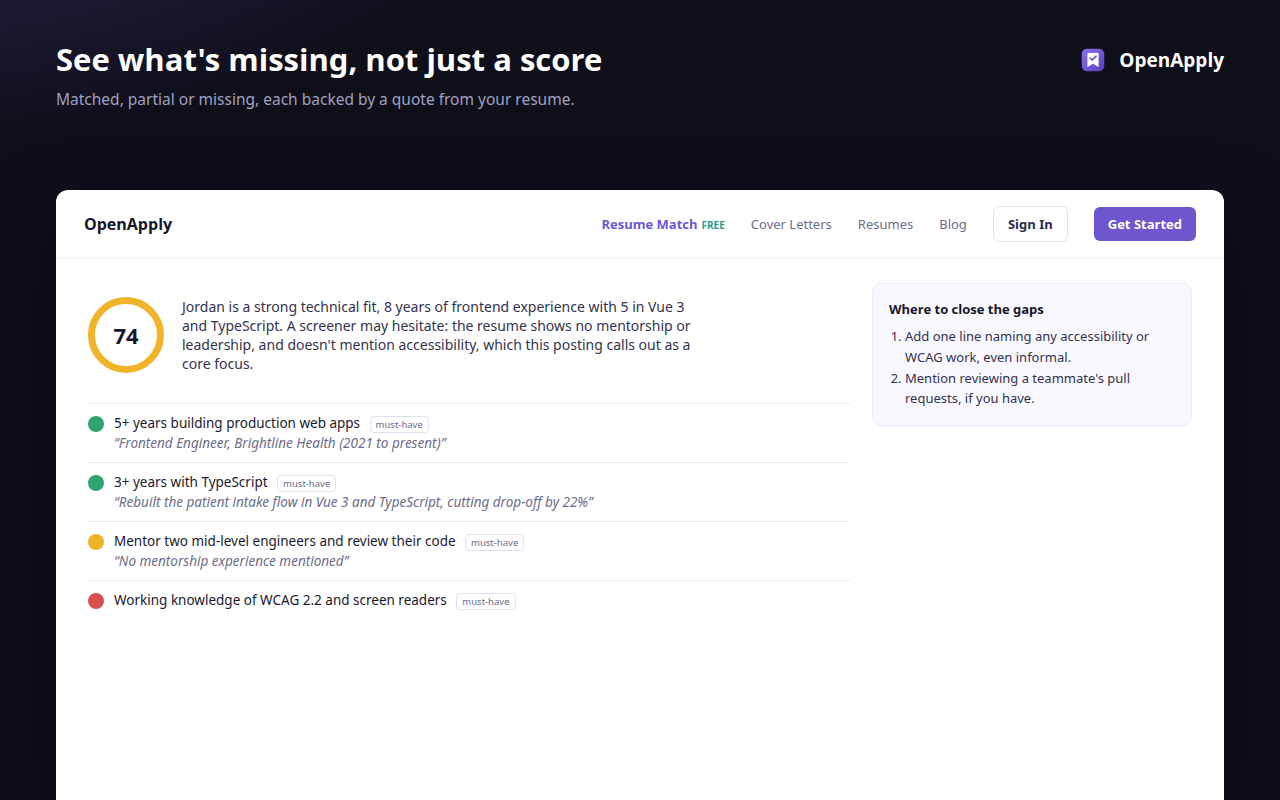
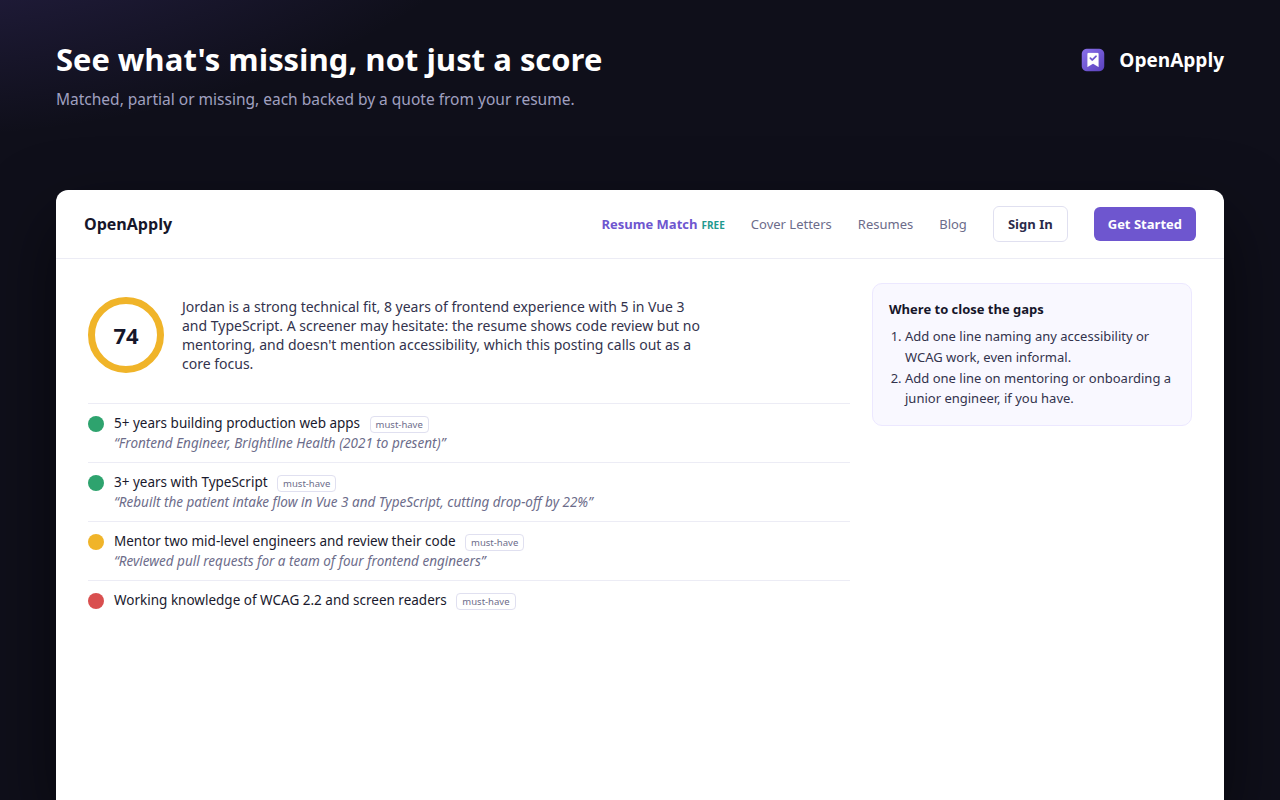
fix: store screenshot 4 quotes real resume evidence for the partial match

Changed region(s): [[0.125, 0.375, 0.5625, 0.4375], [0.6875, 0.4688, 0.9062, 0.5312], [0.0938, 0.6875, 0.375, 0.7188]]

diff --git a/extension/store/source/shot-4-result.html b/extension/store/source/shot-4-result.html
@@ -26,12 +26,12 @@
       <div class="result-col">
         <div class="score-row">
           <div class="score-ring">74</div>
-          <p class="verdict">Jordan is a strong technical fit, 8 years of frontend experience with 5 in Vue 3 and TypeScript. A screener may hesitate: the resume shows no mentorship or leadership, and doesn't mention accessibility, which this posting calls out as a core focus.</p>
+          <p class="verdict">Jordan is a strong technical fit, 8 years of frontend experience with 5 in Vue 3 and TypeScript. A screener may hesitate: the resume shows code review but no mentoring, and doesn't mention accessibility, which this posting calls out as a core focus.</p>
         </div>
         <div class="req-list">
           <div class="req"><span class="icon matched"></span><div>5+ years building production web apps <span class="badge">must-have</span><span class="evidence">&ldquo;Frontend Engineer, Brightline Health (2021 to present)&rdquo;</span></div></div>
           <div class="req"><span class="icon matched"></span><div>3+ years with TypeScript <span class="badge">must-have</span><span class="evidence">&ldquo;Rebuilt the patient intake flow in Vue 3 and TypeScript, cutting drop-off by 22%&rdquo;</span></div></div>
-          <div class="req"><span class="icon partial"></span><div>Mentor two mid-level engineers and review their code <span class="badge">must-have</span><span class="evidence">&ldquo;No mentorship experience mentioned&rdquo;</span></div></div>
+          <div class="req"><span class="icon partial"></span><div>Mentor two mid-level engineers and review their code <span class="badge">must-have</span><span class="evidence">&ldquo;Reviewed pull requests for a team of four frontend engineers&rdquo;</span></div></div>
           <div class="req"><span class="icon missing"></span><div>Working knowledge of WCAG 2.2 and screen readers <span class="badge">must-have</span></div></div>
         </div>
       </div>
@@ -40,7 +40,7 @@
           <h4>Where to close the gaps</h4>
           <ol>
             <li>Add one line naming any accessibility or WCAG work, even informal.</li>
-            <li>Mention reviewing a teammate's pull requests, if you have.</li>
+            <li>Add one line on mentoring or onboarding a junior engineer, if you have.</li>
           </ol>
         </div>
       </div>
